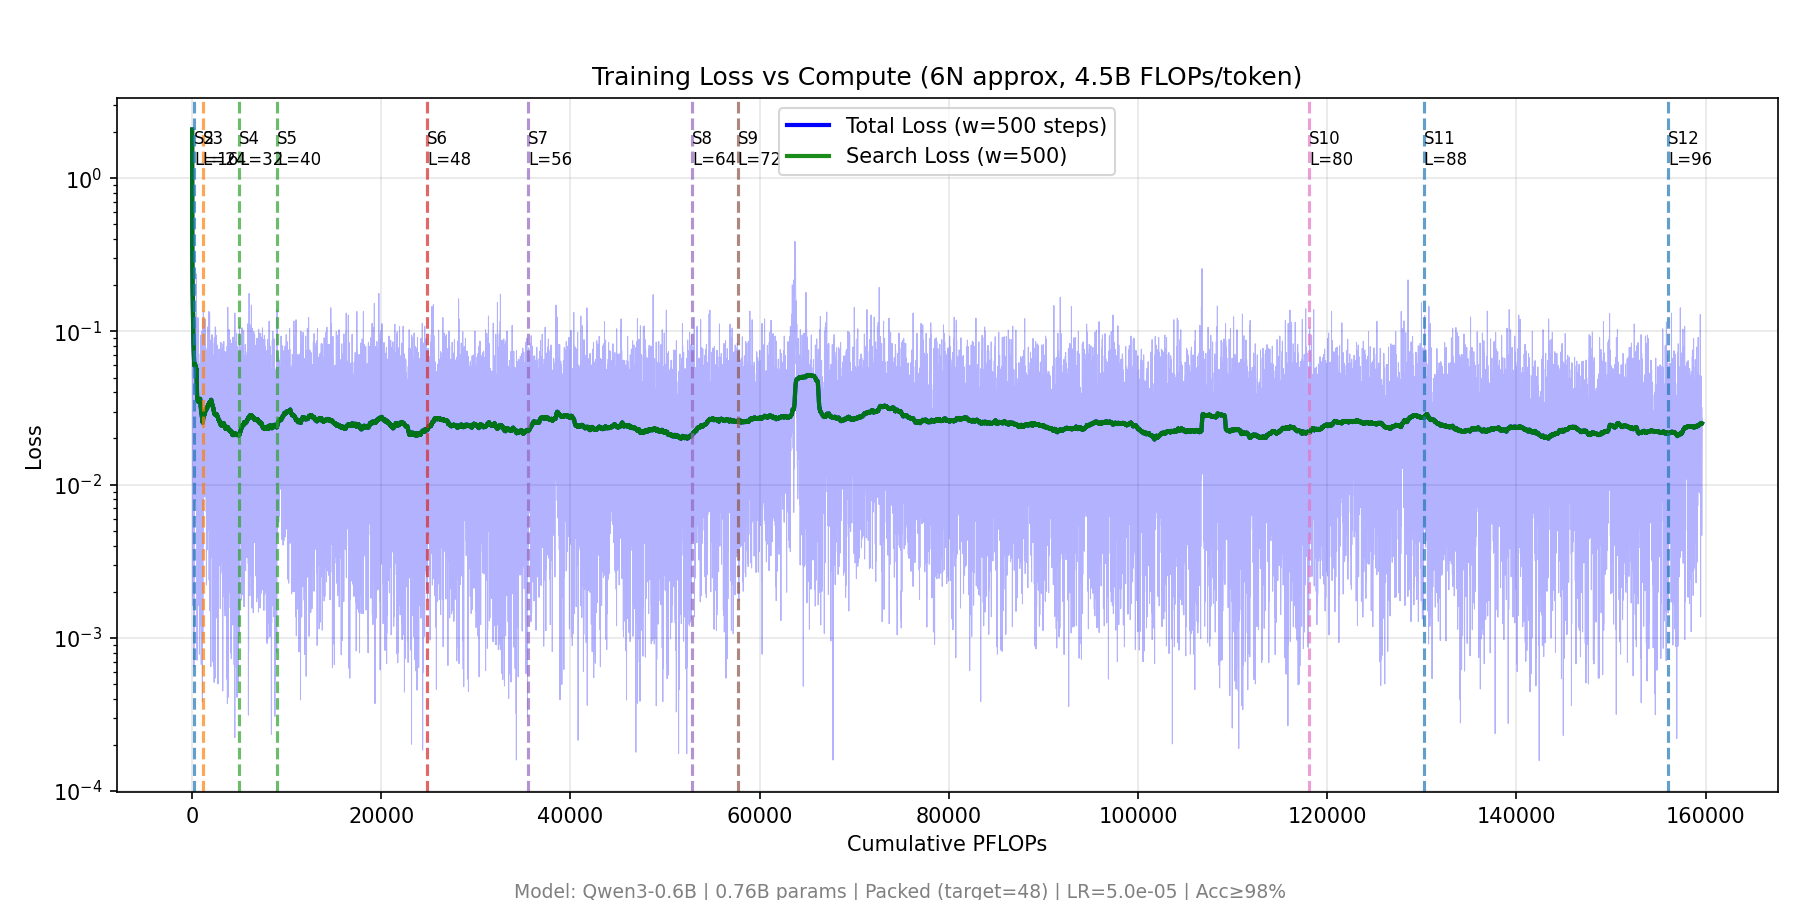
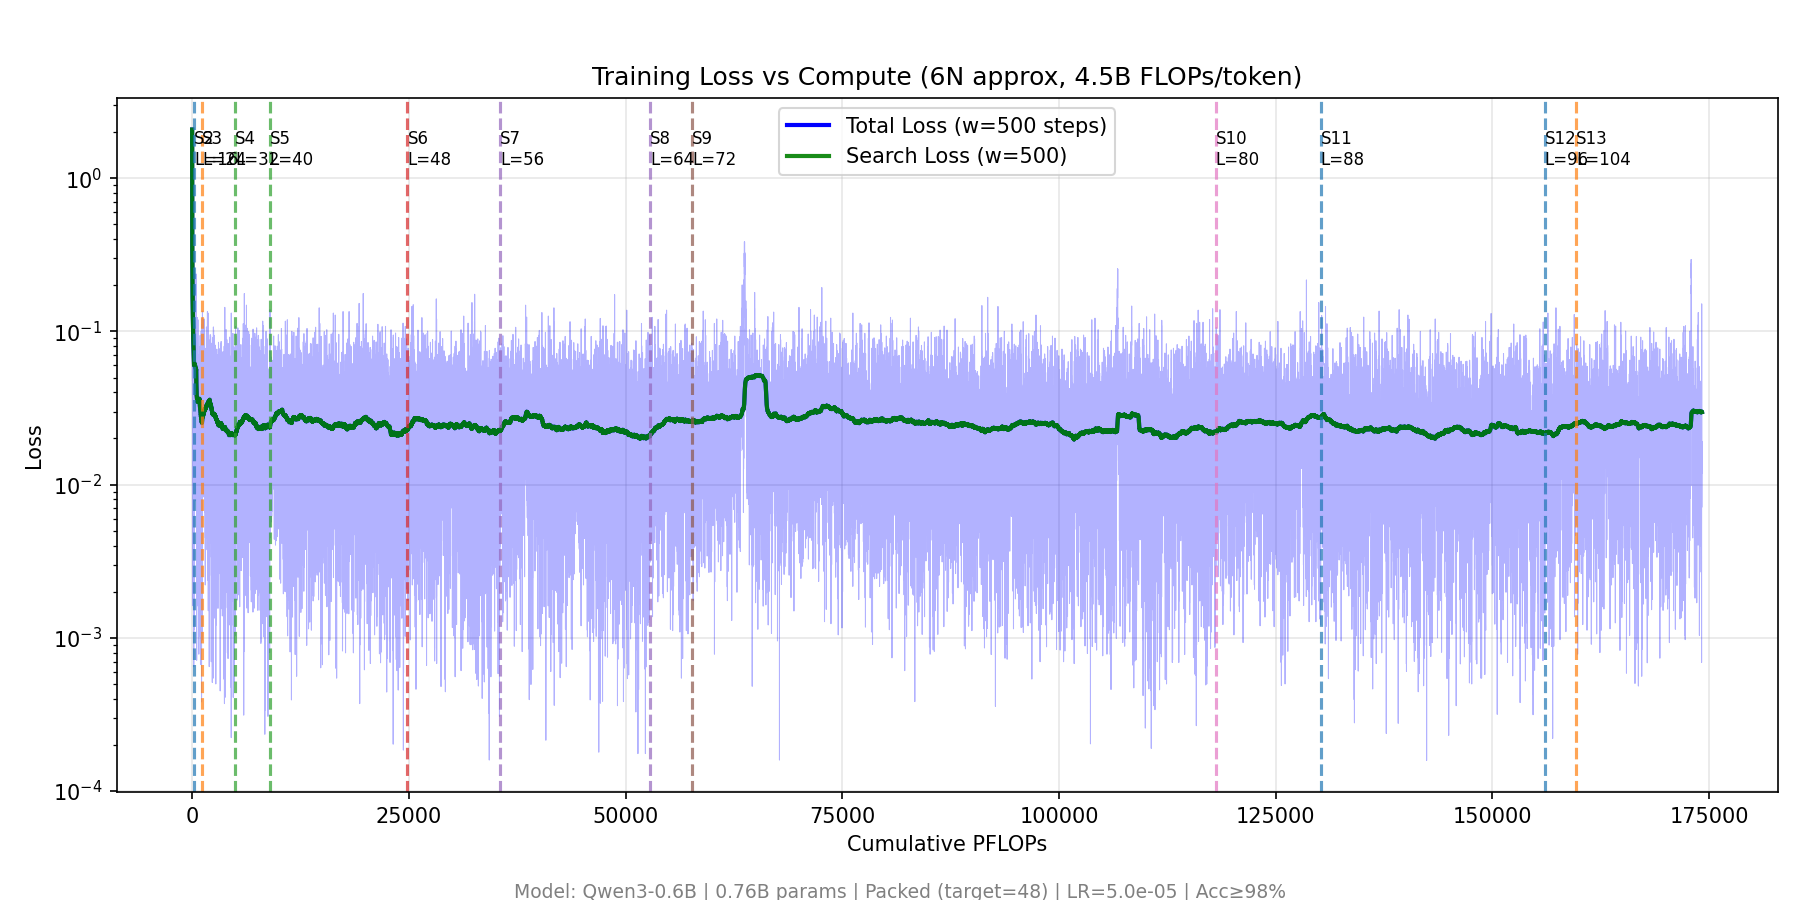
chore(exp1): sync progress and results (2026-10-17 11:37 UTC, LoRA R=256 Stage 13 complete -> Stage 14 L=112)

diff --git a/PROGRESS.md b/PROGRESS.md
@@ -3,7 +3,7 @@
 **Base commit:** `da7b19c` (`main`)
 **Branch:** `jackierwzhang/exp1-qwen06b-lora-vs-fullft`
 **VMs:** `nl-exp1-spot-fullft` (`europe-west1-c`, deleted after completion), `nl-exp1-spot-r8` (`us-east4-a`, deleted after completion), `nl-exp1-spot-r64` (`europe-west1-c`, deleted after completion), `nl-exp1-spot-r256` (`a3-highgpu-4g`, 4x H100-80GB Spot, `us-east4-b`)
-**Last updated:** 2026-10-17 11:21 UTC
+**Last updated:** 2026-10-17 11:37 UTC
 
 ## Shared Configuration
 
@@ -28,9 +28,9 @@
 | Full-FT | `exp1_qwen06b_fullft` | Full FT | 0,1,2,3 (Spot 4x H100: nl-exp1-spot-fullft, europe-west1-c) | Completed | 27570 | 16 (`L=128`) | 97.62% | 98.88% | 0.0163 | 116023.73 | 405.3 | 71.26h | 0.0h (Done) |
 | LoRA `R=8` | `exp1_qwen06b_lora_r8` | `--use_lora --lora_rank 8` (`alpha=16, dropout=0.1`) | 0,1,2,3 (Spot 4x H100: nl-exp1-spot-r8, us-east4-a) | Completed | 43120 | 16 (`L=128`) | 97.62% | 98.50% | 0.0163 | 163375.24 | 235.7 | 142.65h | 0.0h (Done) |
 | LoRA `R=64` | `exp1_qwen06b_lora_r64` | `--use_lora --lora_rank 64` (`alpha=128, dropout=0.1`) | 0,1,2,3 (Spot 4x H100: nl-exp1-spot-r64, europe-west1-c) | Completed | 31200 | 16 (`L=128`) | 98.00% | 98.75% | 0.0200 | 133558.81 | 219.6 | 124.37h | 0.0h (Done) |
-| LoRA `R=256` | `exp1_qwen06b_lora_r256` | `--use_lora --lora_rank 256` (`alpha=512, dropout=0.1`) | 0,1,2,3 (Spot 4x H100: nl-exp1-spot-r256, us-east4-b) | Running | 40590 | 13 (`L=104`) | 95.88% | 97.12% | 0.0275 | 136860.05 | 161.2 | 175.64h | ~89.9h (stage-wt) / ~0.0h (82k PFLOPs ref) |
+| LoRA `R=256` | `exp1_qwen06b_lora_r256` | `--use_lora --lora_rank 256` (`alpha=512, dropout=0.1`) | 0,1,2,3 (Spot 4x H100: nl-exp1-spot-r256, us-east4-b) | Running | 40620 | 14 (`L=112`) | 95.62% | 96.88% | 0.0228 | 137024.09 | 161.1 | 175.95h | ~85.0h (stage-wt) / ~0.0h (82k PFLOPs ref) |
 
-> **ETA Methodology & Overall Experiment 1 Completion (1 Active Arm on 4x Spot H100; Full-FT, LoRA `R=8`, LoRA `R=64` Completed):** `stage-wt` scales current wall time by remaining lookahead units ($\sum_{k=1}^{16} k = 136$); `82k PFLOPs ref` divides remaining compute against the collaborator's `Qwen3-0.6B` `step=8` cold-start reference (`82,000 PFLOPs` to `L=128`) by the arm's measured `PFLOPs/h` rate. Next arm completion is estimated in **~89.9h (stage-wt) / ~0.0h (82k PFLOPs ref)**; full 4-arm concurrent completion is bounded by the slowest arm at **~89.9h (stage-wt) to ~0.0h (82k PFLOPs ref)**.
+> **ETA Methodology & Overall Experiment 1 Completion (1 Active Arm on 4x Spot H100; Full-FT, LoRA `R=8`, LoRA `R=64` Completed):** `stage-wt` scales current wall time by remaining lookahead units ($\sum_{k=1}^{16} k = 136$); `82k PFLOPs ref` divides remaining compute against the collaborator's `Qwen3-0.6B` `step=8` cold-start reference (`82,000 PFLOPs` to `L=128`) by the arm's measured `PFLOPs/h` rate. Next arm completion is estimated in **~85.0h (stage-wt) / ~0.0h (82k PFLOPs ref)**; full 4-arm concurrent completion is bounded by the slowest arm at **~85.0h (stage-wt) to ~0.0h (82k PFLOPs ref)**.
 
 ## Stage Evaluation Summary (`stage_eval_history.json`)
 
@@ -96,3 +96,4 @@
 | LoRA `R=256` | 10 | 33675 | 80 | 0.634 | 0.1143 | 87.20% | 87.00% | 98.80% | 98.80% |
 | LoRA `R=256` | 11 | 38000 | 88 | 0.697 | 0.0608 | 92.60% | 92.40% | 98.80% | 98.80% |
 | LoRA `R=256` | 12 | 38550 | 96 | 0.760 | 0.0475 | 93.20% | 93.20% | 98.40% | 98.40% |
+| LoRA `R=256` | 13 | 40625 | 104 | 0.823 | 0.0434 | 95.00% | 94.80% | 98.80% | 98.60% |
